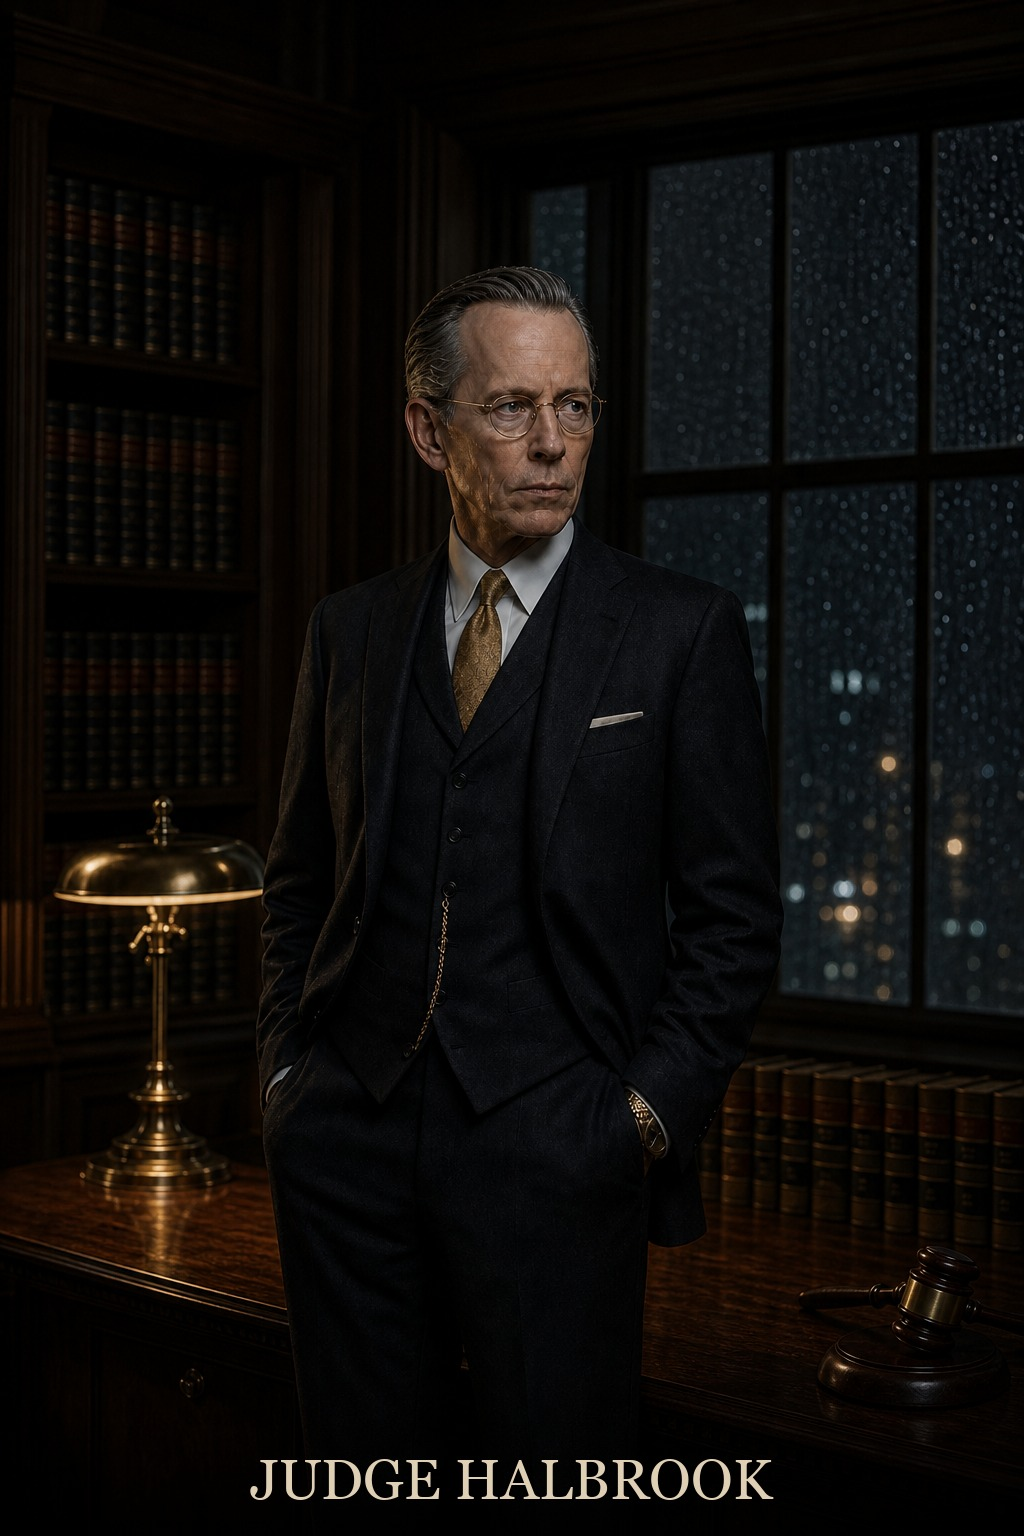
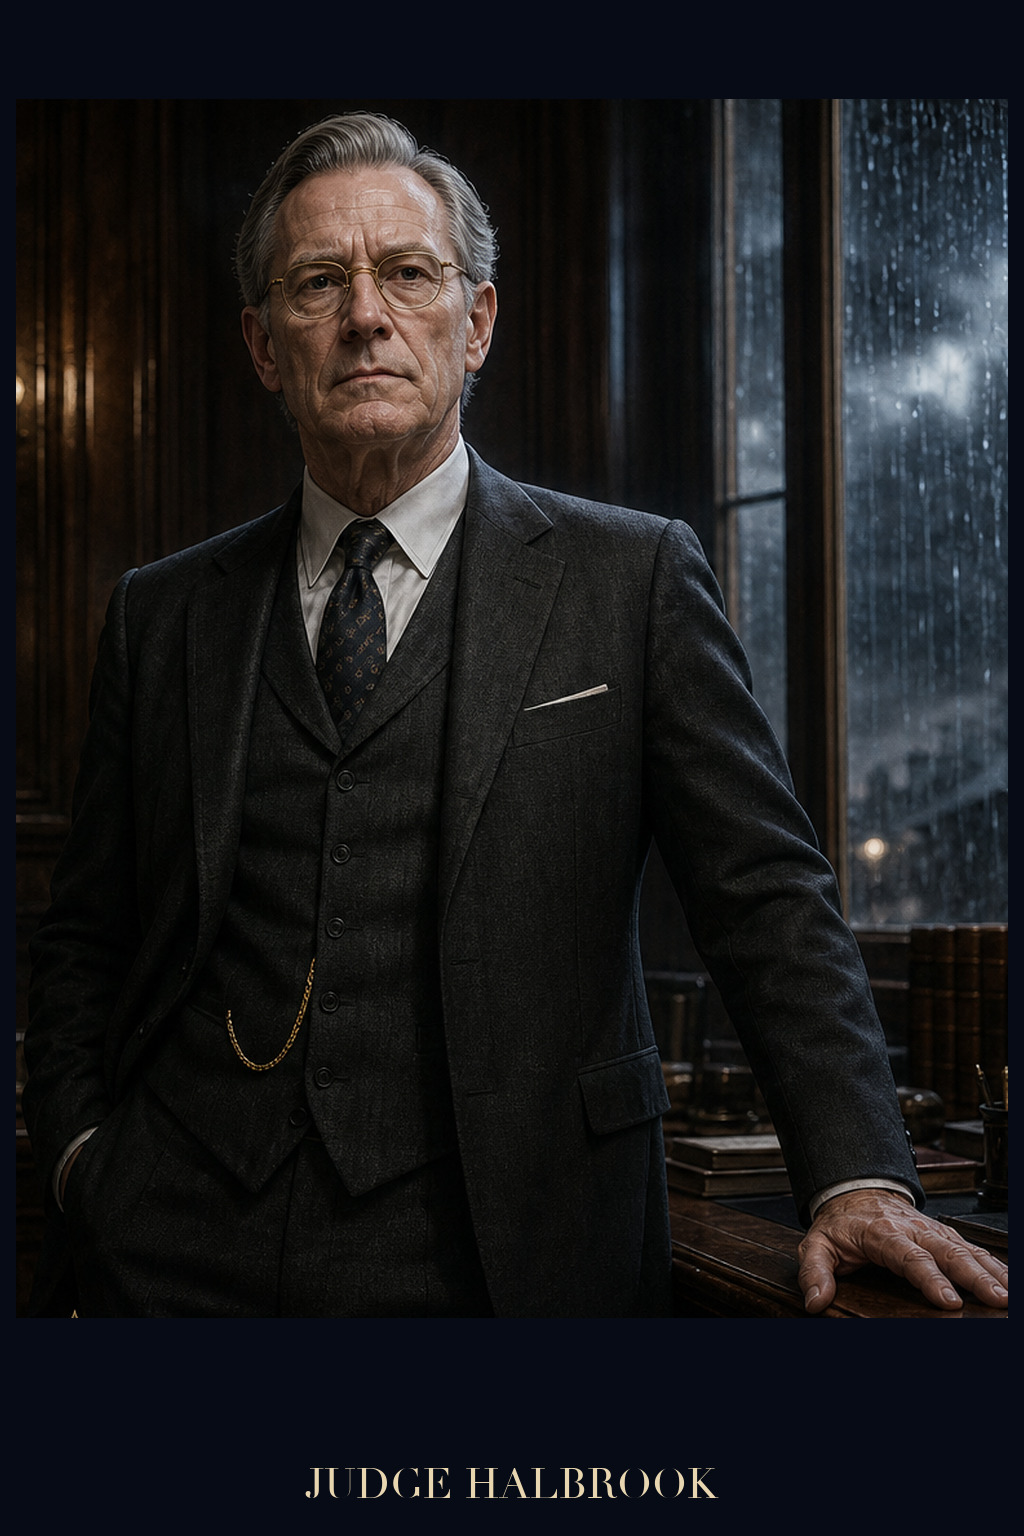
Put the namecard Halbrook still on the blog wheel.

diff --git a/lib/chapterOneWheel.js b/lib/chapterOneWheel.js
@@ -47,7 +47,7 @@ export const CHAPTER_ONE_WHEEL = [
   {"id": "34-dorathy-edwards-pike", "name": "Dorathy Edwards-Pike", "src": "/characters/wheel/34-dorathy-edwards-pike.jpg"},
   {"id": "35-morgan-fields", "name": "Morgan Fields", "src": "/characters/wheel/35-morgan-fields.jpg"},
   {"id": "37-grace-allison", "name": "Grace Allison", "src": "/characters/wheel/37-grace-allison.jpg", "line": "DA"},
-  {"id": "95-judge-halbrook", "name": "Judge Halbrook", "src": "/characters/wheel/95-judge-halbrook.jpg?v=portrait-0912", "line": "The bench after Gatson", "tall": true}
+  {"id": "95-judge-halbrook", "name": "Judge Halbrook", "src": "/characters/wheel/95-judge-halbrook.jpg?v=namecard-0920", "line": "The bench after Gatson", "tall": true}
 ];
 
 /** Not on the Book One wheel. Public copy: “Book Two” only — never the title or cover. */
